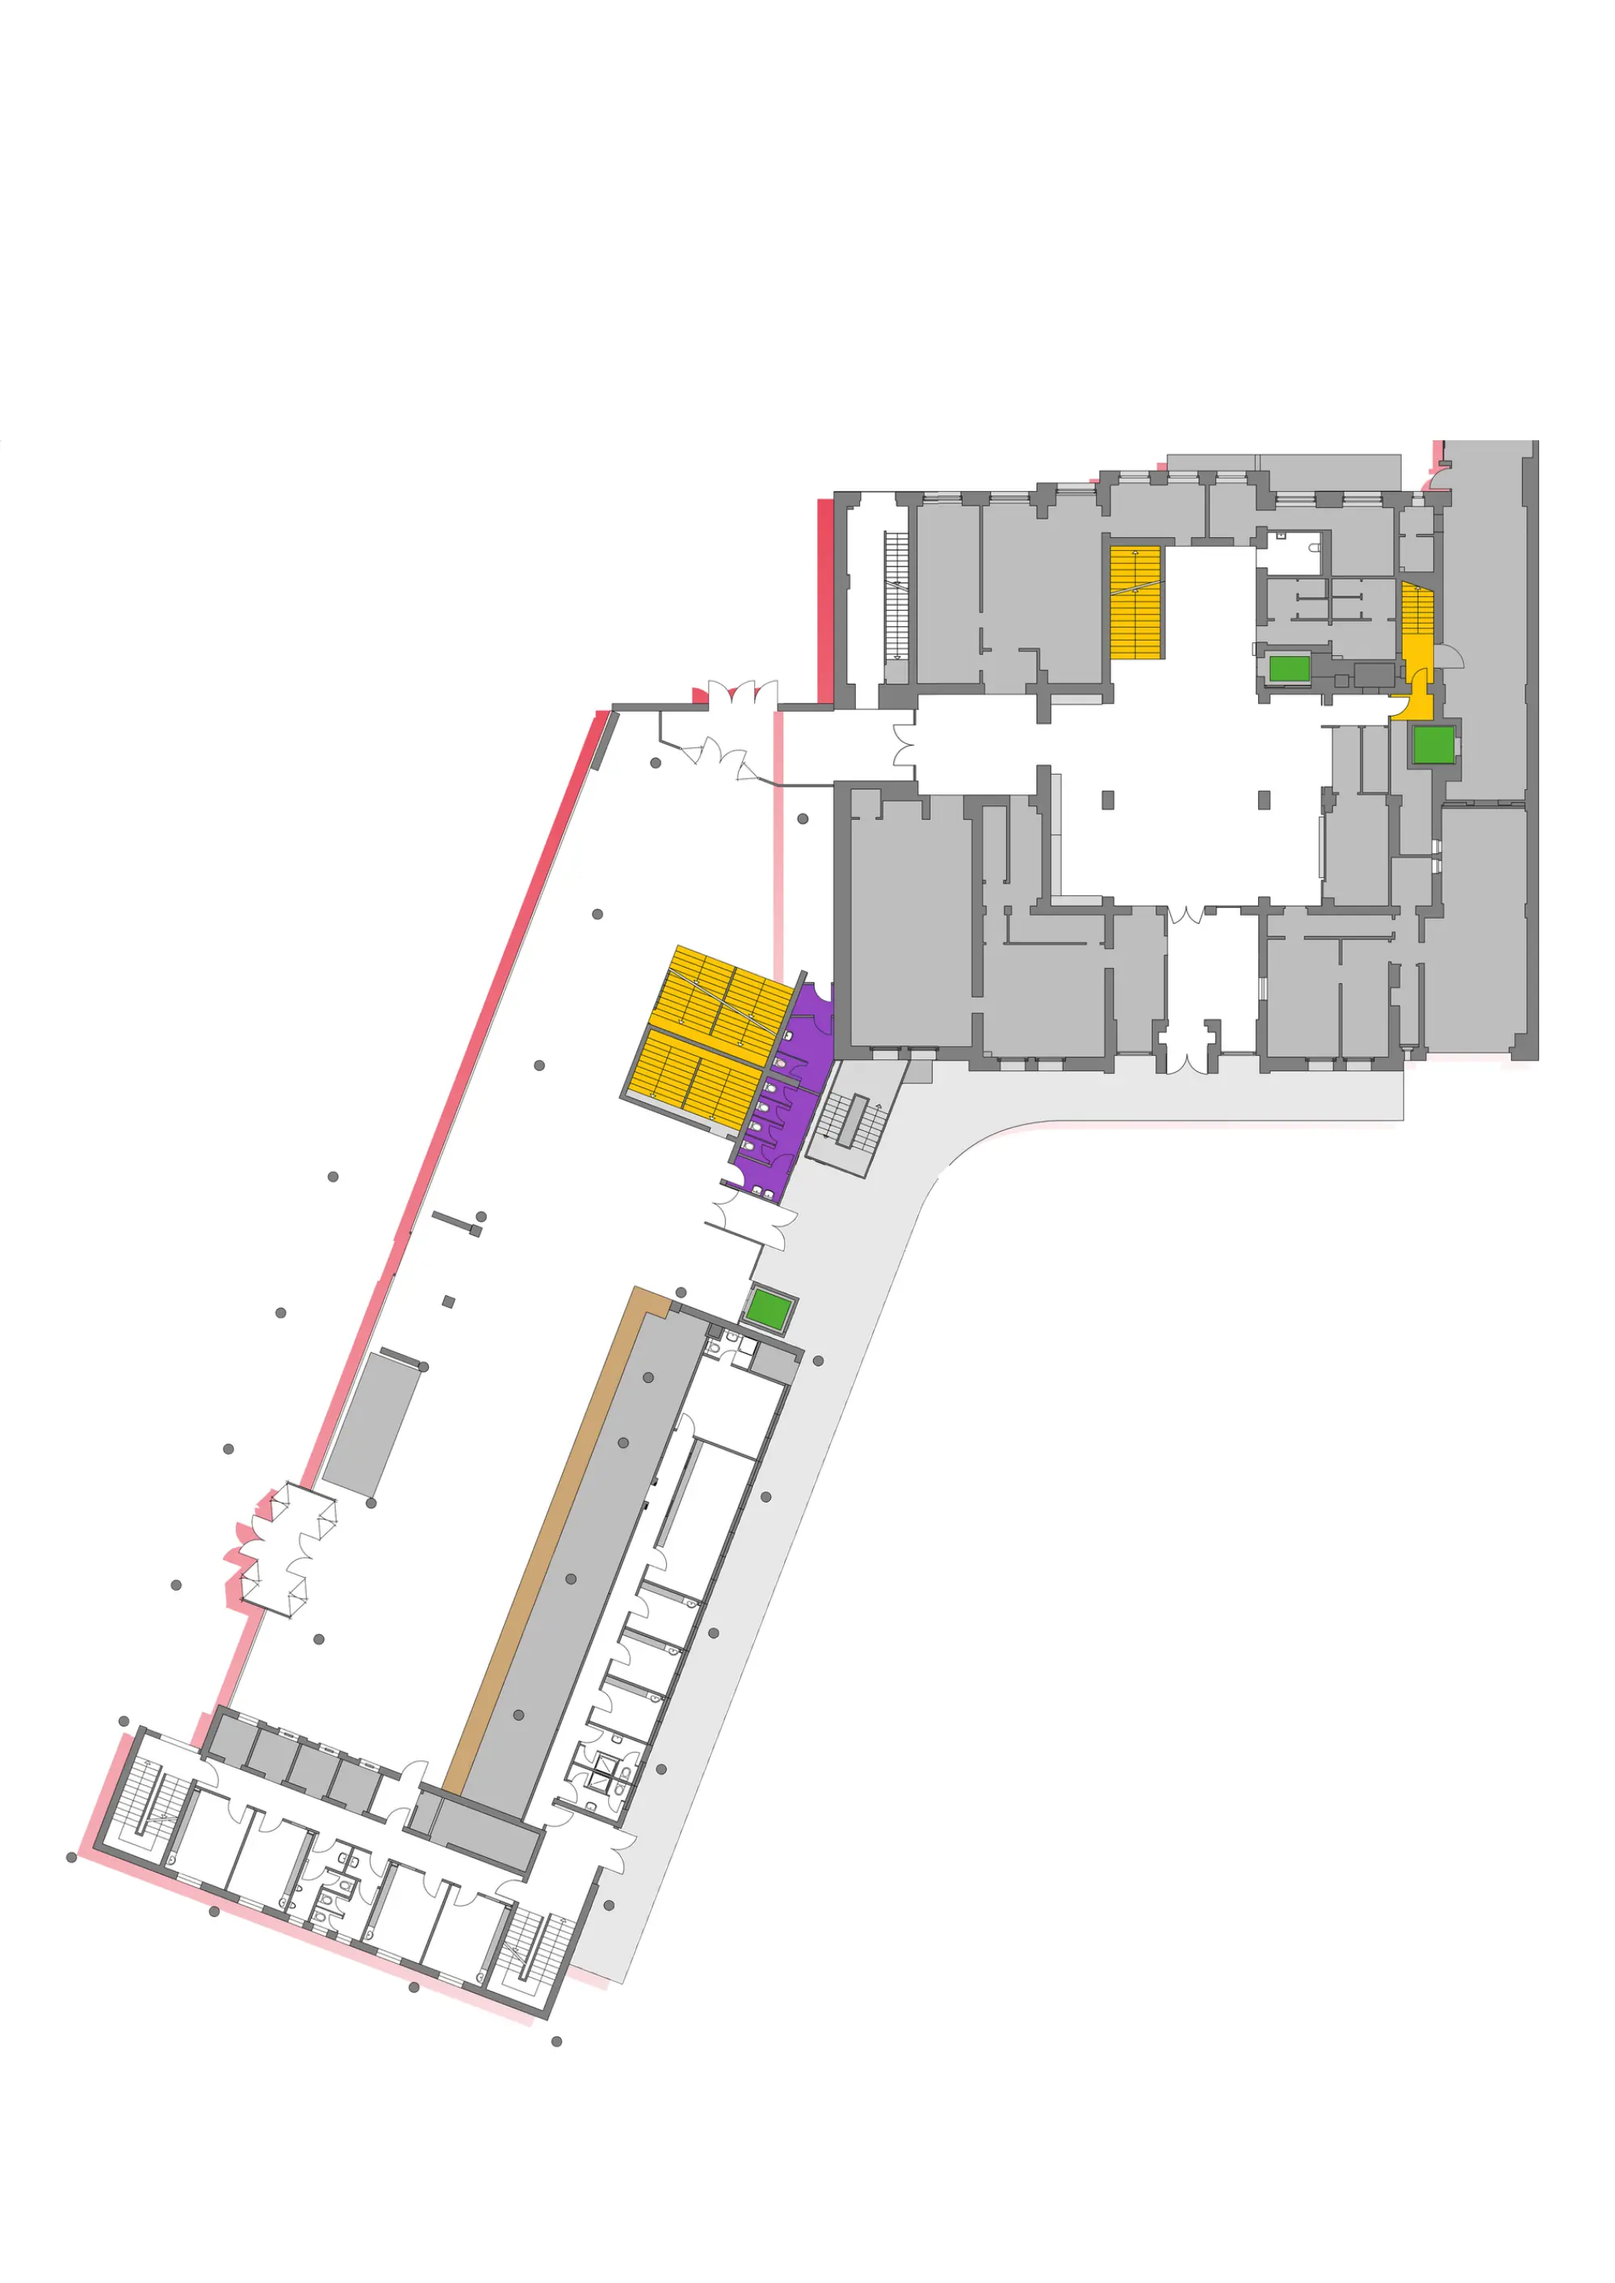
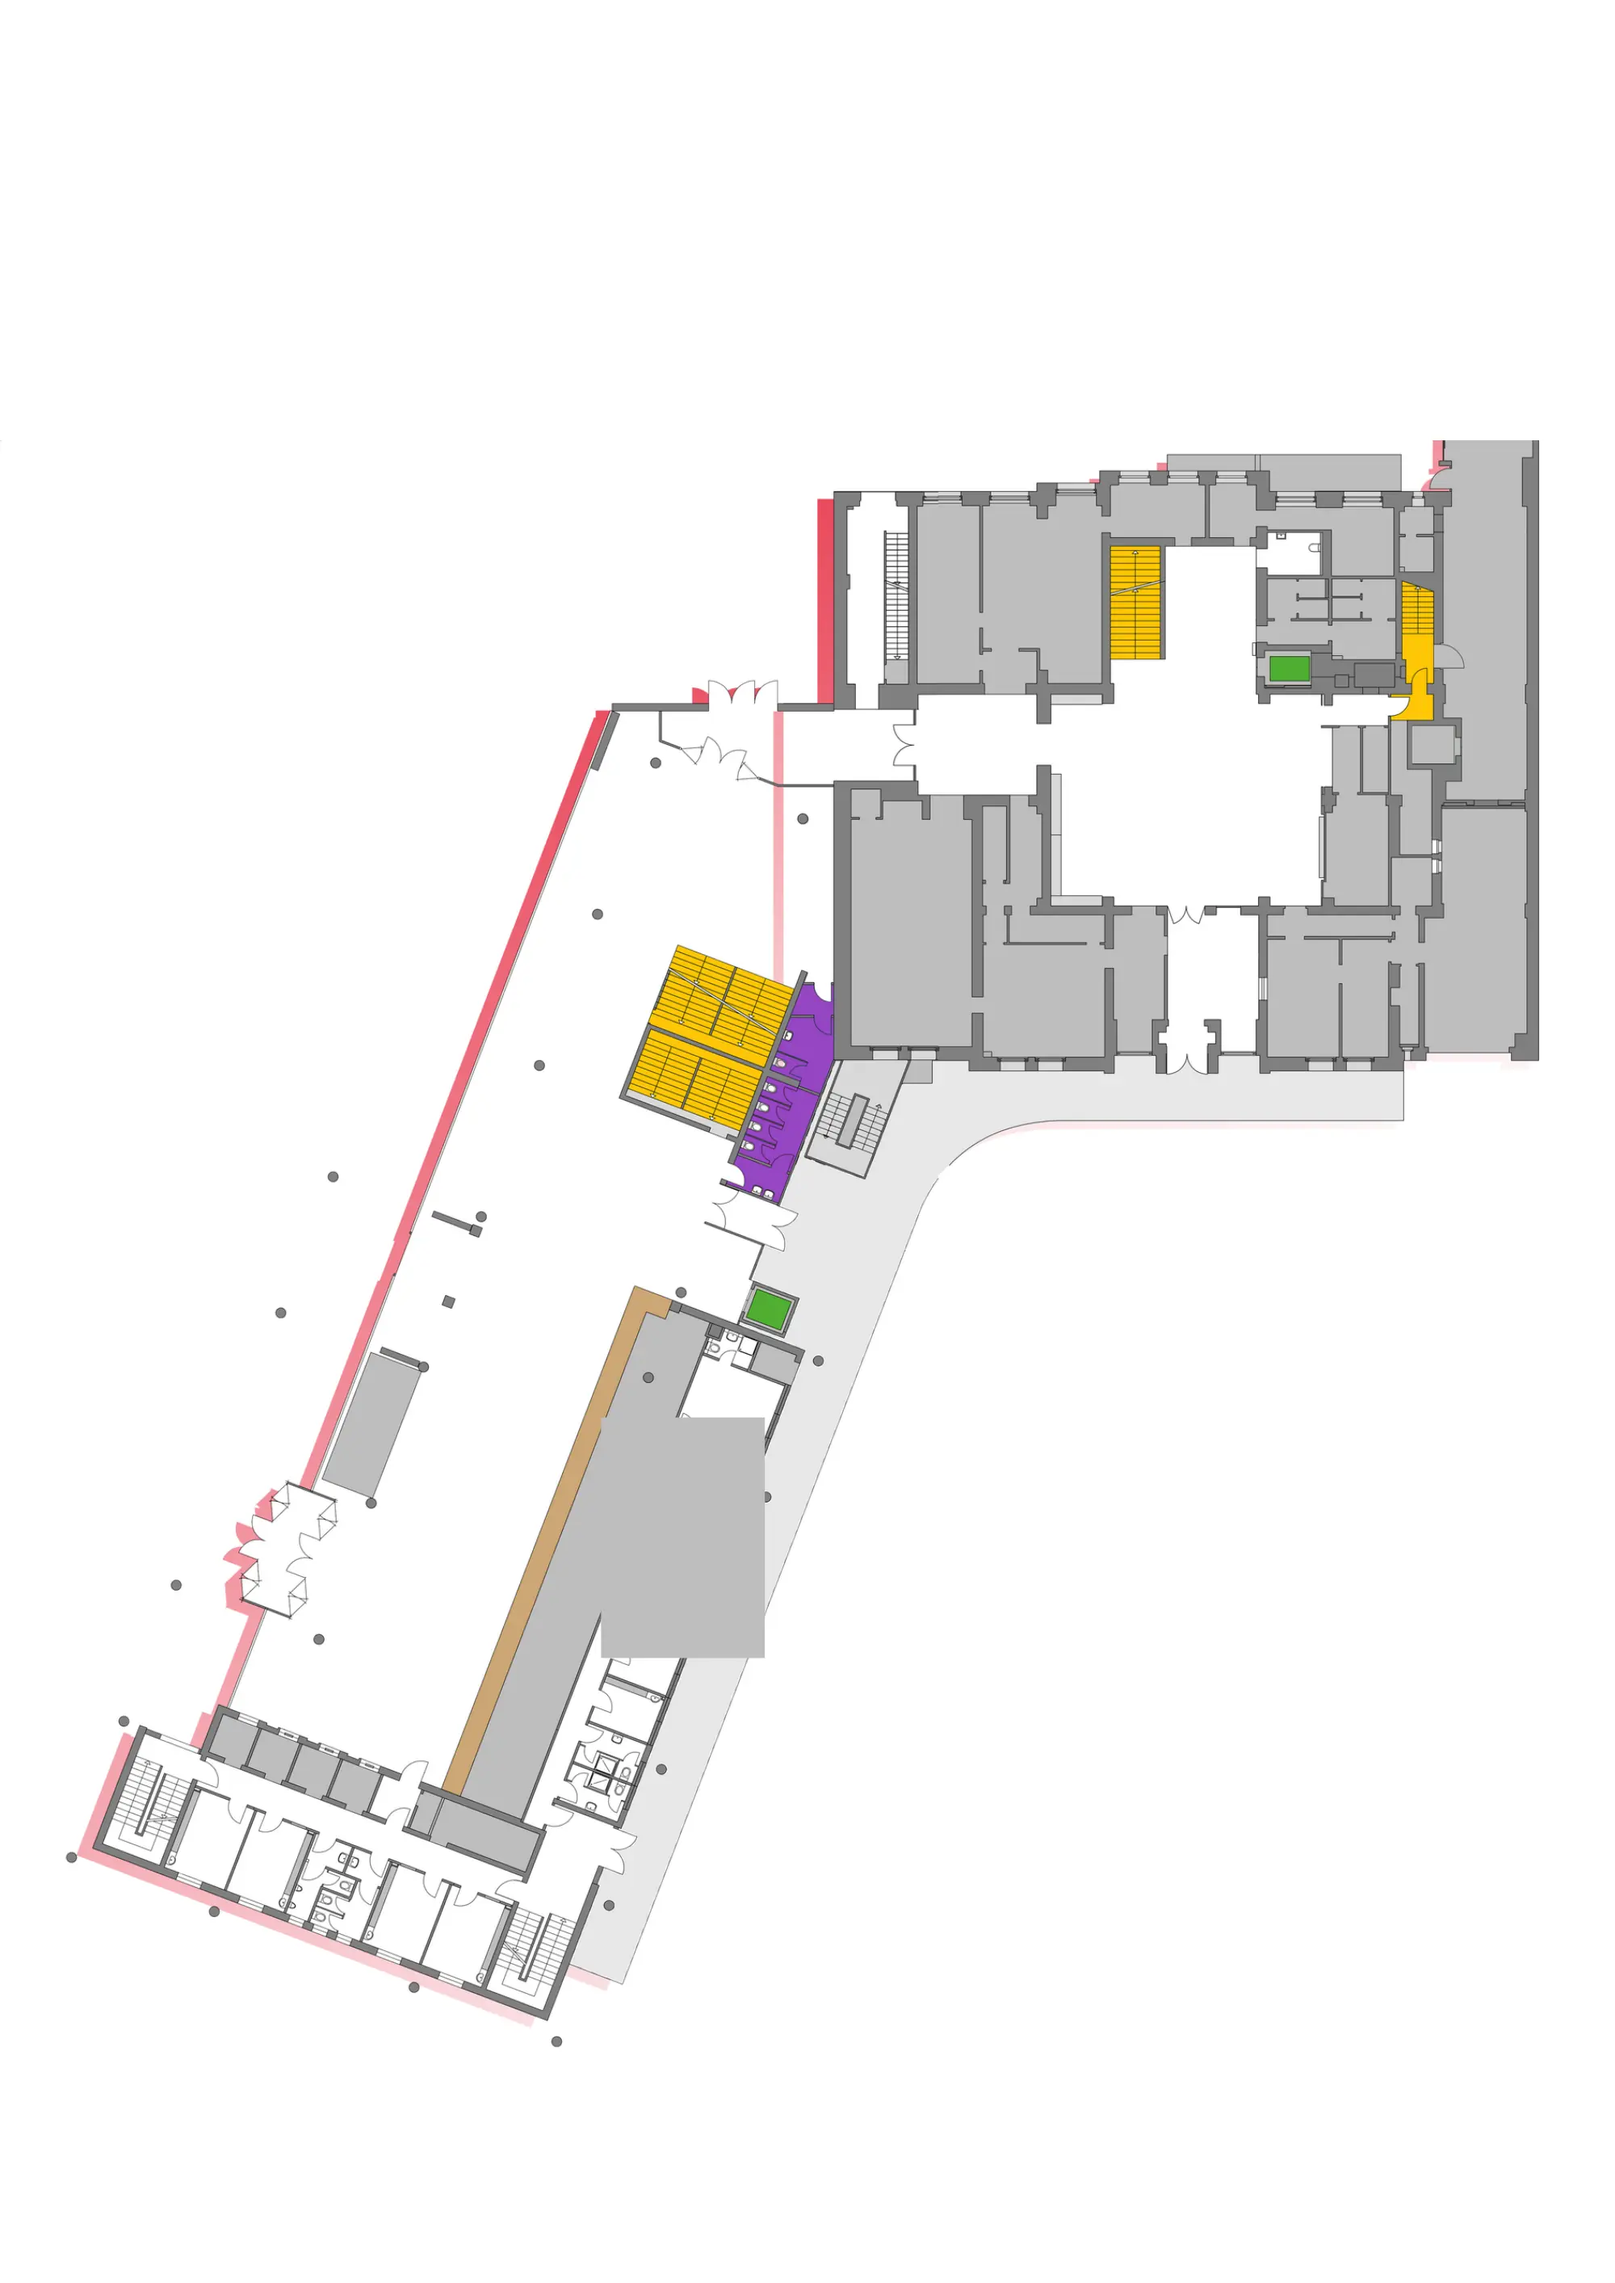
Fix bright boxes: paint Canva cover boxes into the plan layer
Grey/white boxes drawn in Canva over the plan were forced opaque in the
label layer, which sits above the dimming, so they showed up as bright
patches whenever something was selected or in dark mode. One of them
(over the Nap Rooms) isn't even visible in the PDF.

Now only boxes that are visible on the page count, and they are drawn
into the muted and full-colour plan images instead.

Claude-Session: https://claude.ai/code/session_015V1Up3ZqZfHCpci2d7gwo3

Changed region(s): [[0.372, 0.6228, 0.496, 0.7473], [0.868, 0.3114, 0.899, 0.3425]]

diff --git a/scripts/import.py b/scripts/import.py
@@ -231,11 +231,14 @@ def find_pins(page, covers, fill, legend):
 
 
 def canva_covers(page, covers):
-    """Solid shapes drawn in Canva on top of the plan picture (e.g. grey boxes
-    hiding a staircase). Returns list of Rects."""
+    """Solid grey/white boxes drawn in Canva on top of the plan picture (e.g.
+    hiding a closed staircase) that are actually visible on the page.
+    Returns list of (Rect, fill)."""
     if not covers:
         return []
     img_seq = covers[0][0]
+    vs = 2
+    page_px = render(page, vs).astype(int)
     out = []
     for d in page.get_drawings():
         f = d.get("fill")
@@ -246,17 +249,28 @@ def canva_covers(page, covers):
         if max(f) - min(f) > 0.05:  # coloured = pins, legend swatches, icons
             continue
         r = d["rect"]
-        if r.width * r.height >= 100:
-            out.append(pymupdf.Rect(r))
+        if r.width * r.height < 100:
+            continue
+        # skip boxes that do not show on the page (clipped away / covered)
+        x0, y0, x1, y1 = [int(v * vs) for v in r]
+        patch = page_px[max(0, y0):y1, max(0, x0):x1].reshape(-1, 3)
+        if not len(patch) or (np.abs(patch - np.array(f) * 255).max(1) < 20).mean() < 0.3:
+            continue
+        if not any(pymupdf.Rect(r) == o[0] and tuple(f) == o[1] for o in out):
+            out.append((pymupdf.Rect(r), tuple(f)))
     return out
 
 
-def plan_only_render(doc, page, s):
-    """The plan picture alone, rendered by MuPDF exactly as on the page."""
+def plan_only_render(doc, page, s, boxes=()):
+    """The plan picture alone, rendered by MuPDF exactly as on the page, plus
+    the Canva boxes that hide parts of it (they belong to the plan, so they
+    get muted/dimmed with it)."""
     info = max(page.get_image_info(xrefs=True), key=lambda i: i["width"] * i["height"])
     tmp = pymupdf.open()
     tp = tmp.new_page(width=page.rect.width, height=page.rect.height)
     tp.insert_image(pymupdf.Rect(info["bbox"]), stream=doc.extract_image(info["xref"])["image"], keep_proportion=False)
+    for rect, fill in boxes:
+        tp.draw_rect(rect, color=None, fill=fill, overlay=True)
     return render(tp, s)
 
 
@@ -271,10 +285,9 @@ def mute(rgb):
     return (out.clip(0, 1) * 255).astype(np.uint8)
 
 
-def uncomposite(C, B, fixed, s):
+def uncomposite(C, B):
     """Split the page render C into plan B + a transparent layer F (RGBA) so
-    that F over B == C. Areas in `fixed` (Canva boxes hiding closed areas)
-    are kept fully opaque so they keep hiding whatever is underneath."""
+    that F over B == C."""
     Cf, Bf = C.astype(np.float32) / 255, B.astype(np.float32) / 255
     eps = 1e-6
     up = np.where(Cf > Bf, (Cf - Bf) / np.maximum(1 - Bf, eps), 0)
@@ -282,10 +295,6 @@ def uncomposite(C, B, fixed, s):
     a = np.clip(np.maximum(up, dn).max(2), 0, 1)
     a[np.abs(C.astype(int) - B.astype(int)).max(2) < 4] = 0
     F = np.where(a[..., None] > 0, Bf + (Cf - Bf) / np.maximum(a[..., None], eps), 0).clip(0, 1)
-    for r in fixed:
-        x0, y0, x1, y1 = [int(round(v * s)) for v in (r.x0, r.y0, r.x1, r.y1)]
-        a[max(0, y0):y1, max(0, x0):x1] = 1
-        F[max(0, y0):y1, max(0, x0):x1] = Cf[max(0, y0):y1, max(0, x0):x1]
     return (np.dstack([F, a]) * 255).round().astype(np.uint8)
 
 
@@ -631,7 +640,8 @@ def main():
             issue(fname, f'"{b["text"]}": placed at {how}. Check the position on site.')
 
         # 3. raster colour areas
-        cover_rects = canva_covers(page, covers)
+        cover_boxes = canva_covers(page, covers)
+        cover_rects = [r for r, _ in cover_boxes]
         for key in CFG["rasterKey"]:
             regs, small = colour_regions(plan, key["rgb"], key["tolerance"], scale, 40, exclude)
             regs.sort(key=lambda r: (r["pin"][1], r["pin"][0]))
@@ -711,14 +721,13 @@ def main():
 
         # 6. layers: muted plan, full-colour plan, transparent Canva layer
         C = render(page, bscale)
-        B = plan_only_render(doc, page, bscale)
+        B = plan_only_render(doc, page, bscale, cover_boxes)
         B[:int(CFG["titleMaxY"] * bscale)] = 255  # the plan picture's own logo sits under the Canva title
         Image.fromarray(mute(B)).save(MAPS_DIR / f"{fid}.webp", "WEBP", quality=74, method=6)
         Image.fromarray(B).save(MAPS_DIR / f"{fid}-full.webp", "WEBP", quality=74, method=6)
-        Image.fromarray(uncomposite(C, B, cover_rects, bscale), "RGBA").save(
+        Image.fromarray(uncomposite(C, B), "RGBA").save(
             MAPS_DIR / f"{fid}-labels.webp", "WEBP", quality=80, method=6)
         floor_rec["chromeBoxes"] = chrome
-        floor_rec["fixedBoxes"] = [xywh(tuple(r), 0) for r in cover_rects]
 
     # near-duplicate shades among vector fills vs key colours
     shade_check(doc, CFG)

diff --git a/README.md b/README.md
@@ -89,7 +89,7 @@ Files it writes:
 - `maps/<floor>.webp`: the plan picture with colours muted (walls untouched). Loaded first.
 - `maps/<floor>-labels.webp`: everything you drew in Canva (text, pins, arrows, boxes), on a transparent background, separated from the plan picture. Loaded first.
 - `maps/<floor>-full.webp`: the plan picture in full colour; only fetched when something on that floor is highlighted, and only shown inside the highlighted shapes.
-- Canva boxes that hide closed areas are kept fully visible in the label layer, so fading labels never reveals what they cover.
+- Solid grey/white boxes drawn in Canva over the plan (e.g. hiding closed areas) are painted into the plan layers, so they are muted and dimmed with the plan and fading labels never reveals what they cover. Boxes that don't actually show in the PDF are ignored.
 - `source/raster/<floor>.png` + `source/raster/rasters.json`: high-res copies with pixel sizes, kept for the layout planner (not loaded by the page).
 - `import/overlay.generated.json`: raw import result.
 - `data/overlay.json`: generated + overrides. **This is what the page reads.**

diff --git a/import/import-report.md b/import/import-report.md
@@ -1,6 +1,6 @@
 # Import report
 
-Generated 2026-11-02T23:28:51+01:00 from `source/attendee-map.pdf` by `scripts/import.py`. Review pictures (every item drawn on the plan, red outline = shape, dot = pin, label = item id): [Ground floor](review/0.jpg), [1st floor](review/1.jpg), [2nd floor](review/2.jpg), [3rd floor](review/3.jpg).
+Generated 2026-11-02T23:56:06+01:00 from `source/attendee-map.pdf` by `scripts/import.py`. Review pictures (every item drawn on the plan, red outline = shape, dot = pin, label = item id): [Ground floor](review/0.jpg), [1st floor](review/1.jpg), [2nd floor](review/2.jpg), [3rd floor](review/3.jpg).
 
 ## What the PDF contains
 
